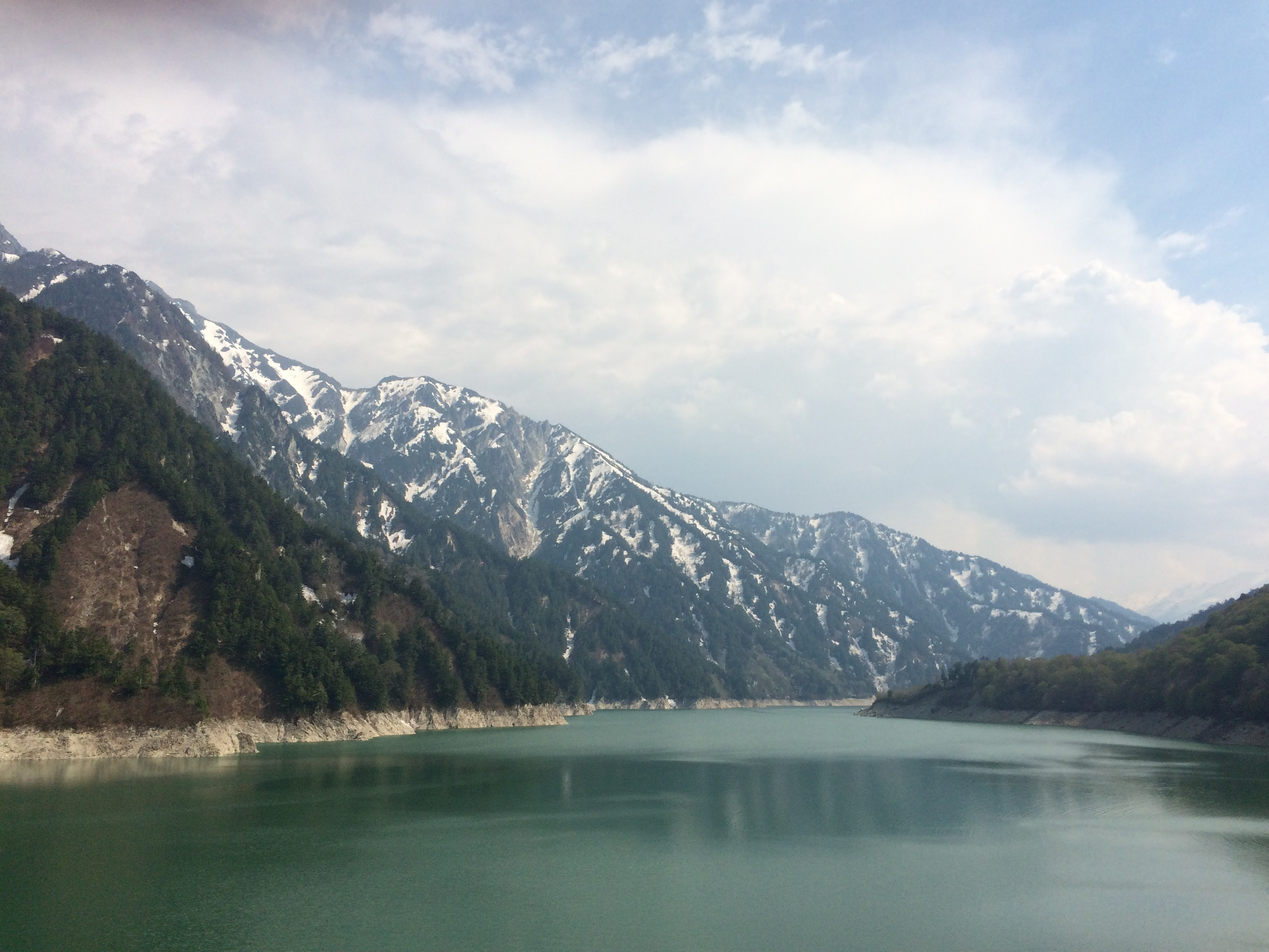
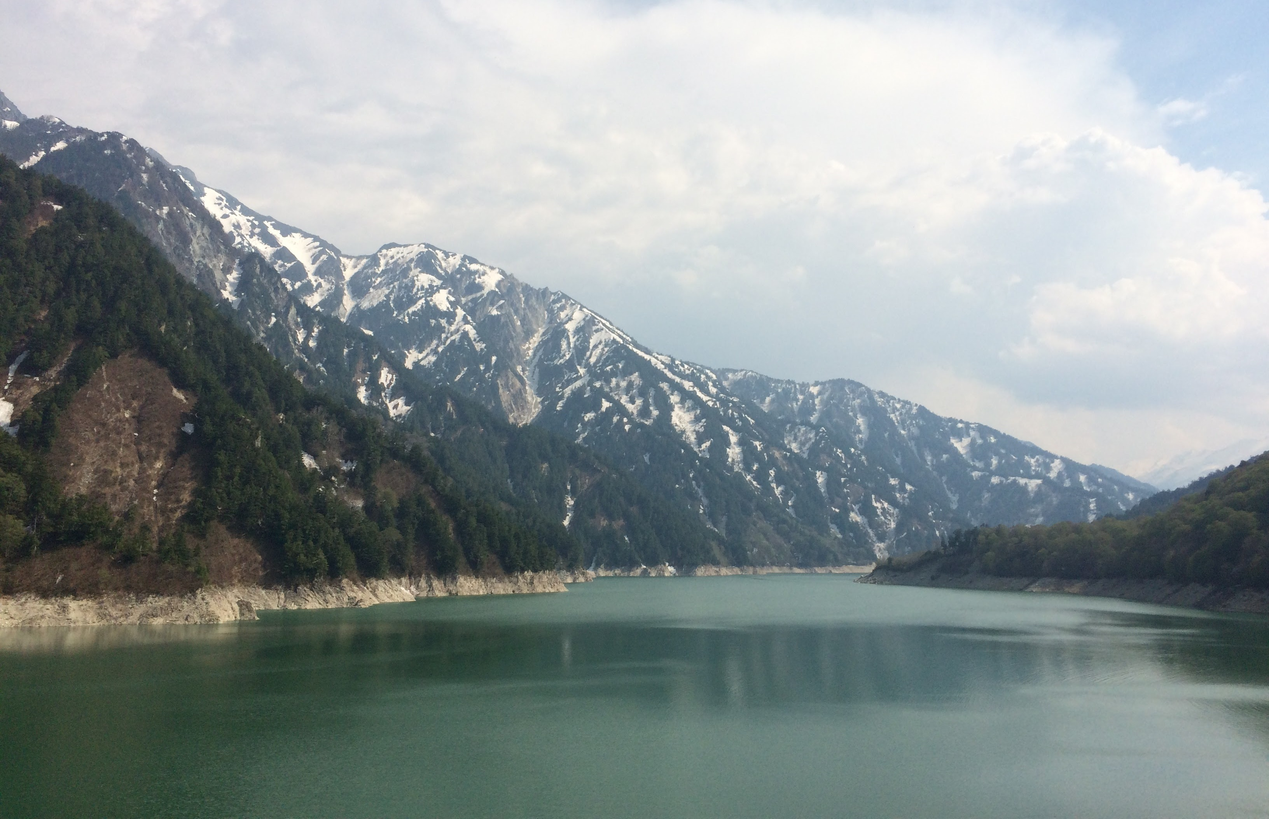
updated hero background image's CSS codes to improve its looks

diff --git a/css/style.css b/css/style.css
@@ -1,7 +1,7 @@
 .hero {
     background-image: url(../images/hero.JPG);
-    /* background-position: ; */
-    background-size: cover;
+    background-position: top right;
+    /* background-size: cover; */
     background-repeat: no-repeat;
 
 }
